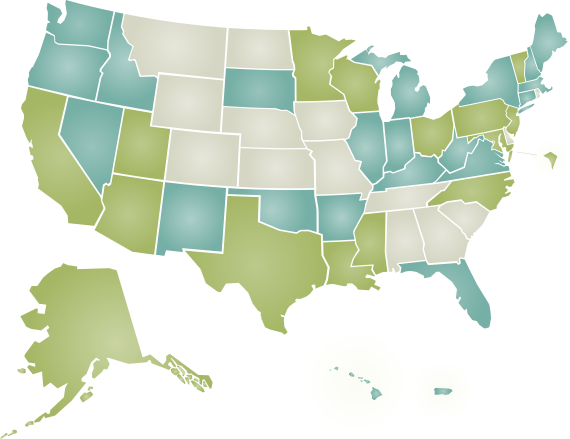
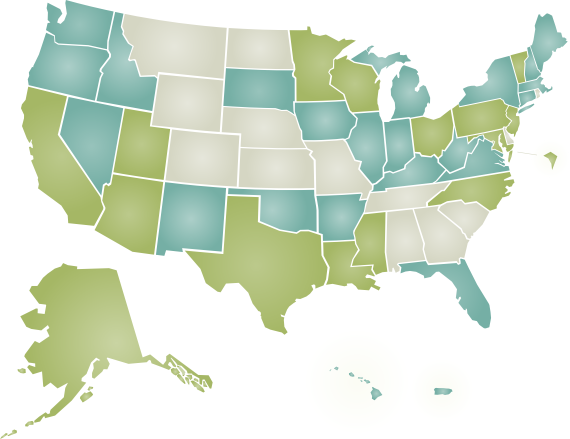
IA.

Changed region(s): [[0.507, 0.2073, 0.6263, 0.3257]]

diff --git a/templates/status.html b/templates/status.html
@@ -5,7 +5,7 @@
 {% block content %}
 <h2>Project Status</h2>
 
-<p> As of August 24th, 2011 we have data for 36 states, the District of Columbia, and Puerto Rico.  </p> 
+<p> As of September 13th, 2011 we have data for 37 states, the District of Columbia, and Puerto Rico.  </p> 
 
 <p> States are denoted as either "ready" or "experimental" depending on how
 reliable the source data is and how thoroughly we've vetted and cleaned up the
@@ -37,9 +37,9 @@ New Jersey, North Carolina, Ohio, Pennsylvania, Texas, Utah, Vermont, Washington
 
 <h4> Experimental States </h4>
 <p> Experimental states (in blue) are those that we support but have not yet promoted to ready
-status.  Arkansas, Connecticut, Florida, Hawaii, Idaho, Indiana, Illinois, Kentucky, Maine, Massachusetts, Michigan,
-Nevada, New Hampshire, New Mexico, New York, Oklahoma, Oregon, Puerto Rico, South Dakota, Virginia,
-Washington, and West Virginia fall in this category.
+status.  Arkansas, Connecticut, Florida, Hawaii, Idaho, Illinois, Indiana, Iowa, Kentucky, Maine,
+Massachusetts, Michigan, Nevada, New Hampshire, New Mexico, New York, Oklahoma, Oregon, Puerto Rico,
+South Dakota, Virginia, Washington, and West Virginia fall in this category.
 </p>
 
 <h4> Unsupported States </h4>
@@ -71,6 +71,13 @@ for the state of your choosing.</p>
 <ul>
     <li>Indiana only makes their votes available in scanned PDFs that currently
     prevent us from capturing legislator roll calls.</li>
+</ul>
+
+<a name="IA"><h4>Iowa</h4></a>
+<ul>
+    <li>Iowa does not provide roll call votes in a format that we can parse with
+    any reliability, so at the moment we do not provide any roll call votes for
+    Iowa.</li>
 </ul>
 
 <a name="KY"><h4>Kentucky</h4></a>

diff --git a/templates/index.html b/templates/index.html
@@ -37,7 +37,7 @@
                         Open States Project Status
                     </h3>
                     <p>
-                        We currently have data available for 36 states, Washington DC, and Puerto Rico.  If your state isn't available yet learn how to <a href="/contributing/">contribute.</a>
+                        We currently have data available for 37 states, Washington DC, and Puerto Rico.  If your state isn't available yet learn how to <a href="/contributing/">contribute.</a>
                     </p>
                 </div>
                 <div class="map-key">
